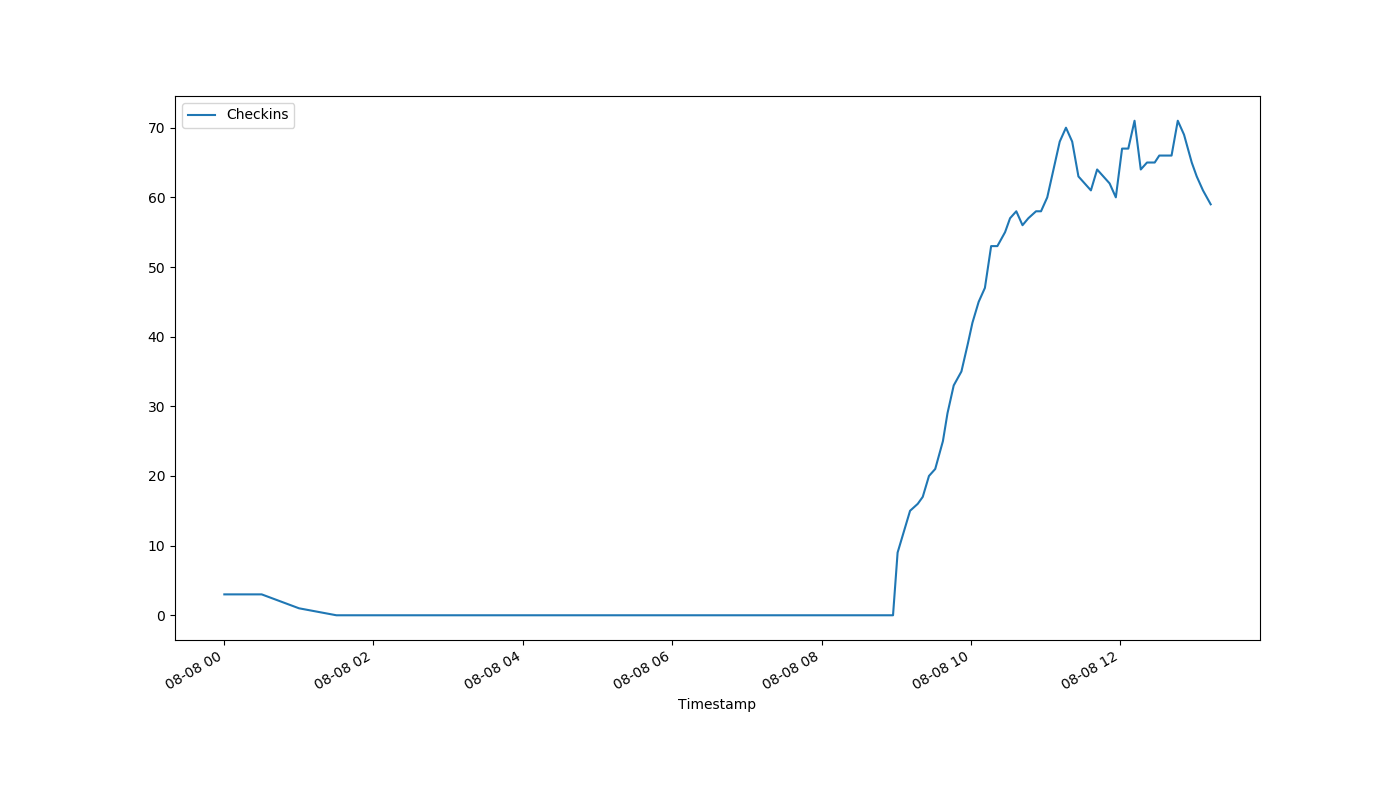
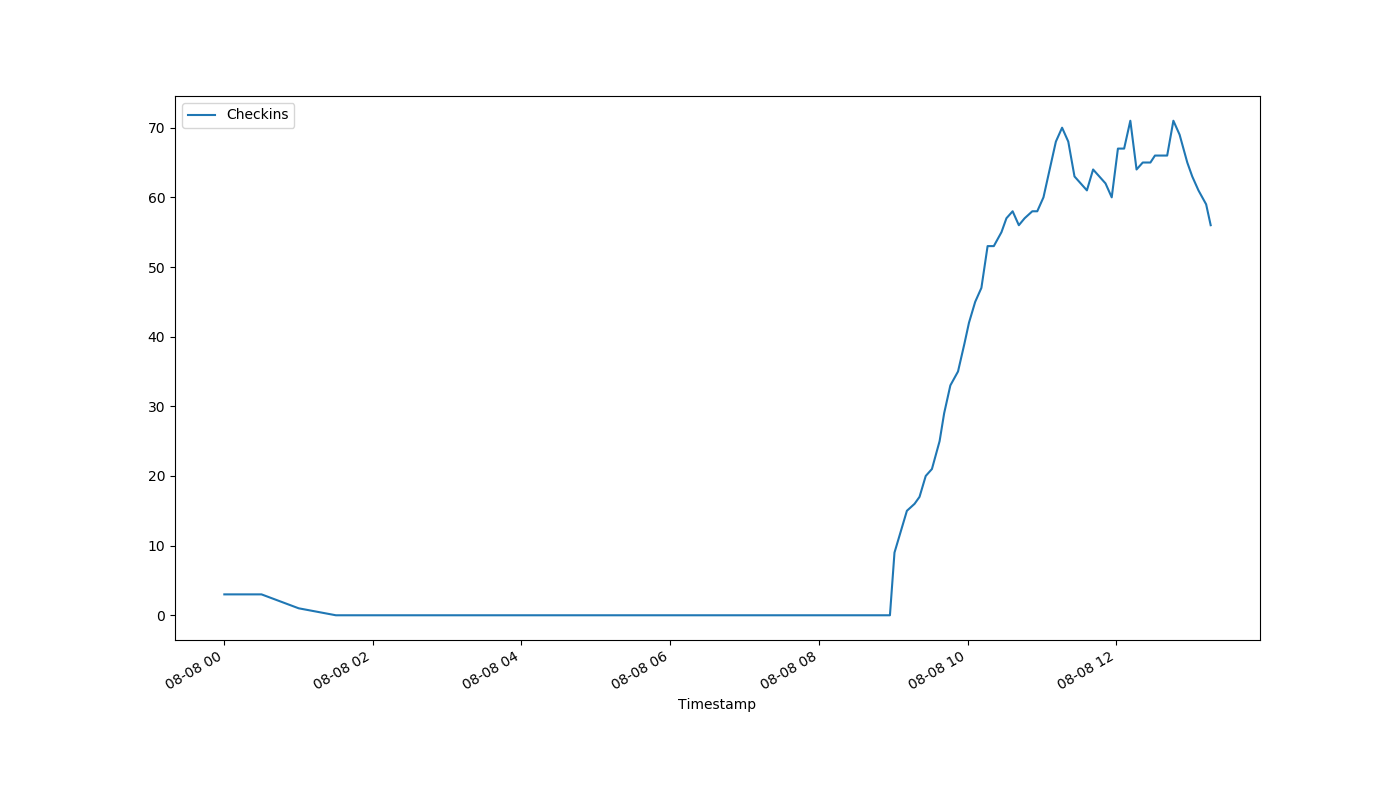
auto-Aug-08-13:17:12

diff --git a/index.html b/index.html
@@ -1,1 +1,1 @@
-<!DOCTYPE html><html><head><meta http-equiv="refresh" content="30"><link rel='stylesheet' href='holmcurrent.css'></head><body><p id='count'>59</p><div id='graph-wrap'><img id='graph' src='holmgraph-Aug-08.png'></div><p id='updated'>Last updated 13:13:13 / 13:12:25</p></body></html>
+<!DOCTYPE html><html><head><meta http-equiv="refresh" content="30"><link rel='stylesheet' href='holmcurrent.css'></head><body><p id='count'>56</p><div id='graph-wrap'><img id='graph' src='holmgraph-Aug-08.png'></div><p id='updated'>Last updated 13:16:13 / 13:16:05</p></body></html>
